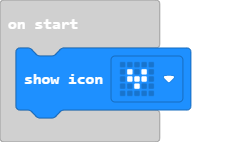
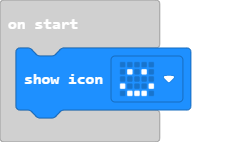
updated smiley

Changed region(s): [[0.4897, 0.5352, 0.6337, 0.7042]]

diff --git a/main.ts b/main.ts
@@ -1,4 +1,4 @@
-basic.showIcon(IconNames.SmallHeart)
+basic.showIcon(IconNames.Happy)
 basic.forever(function () {
     while (input.lightLevel() > 100) {
         servos.P0.run(input.lightLevel())
